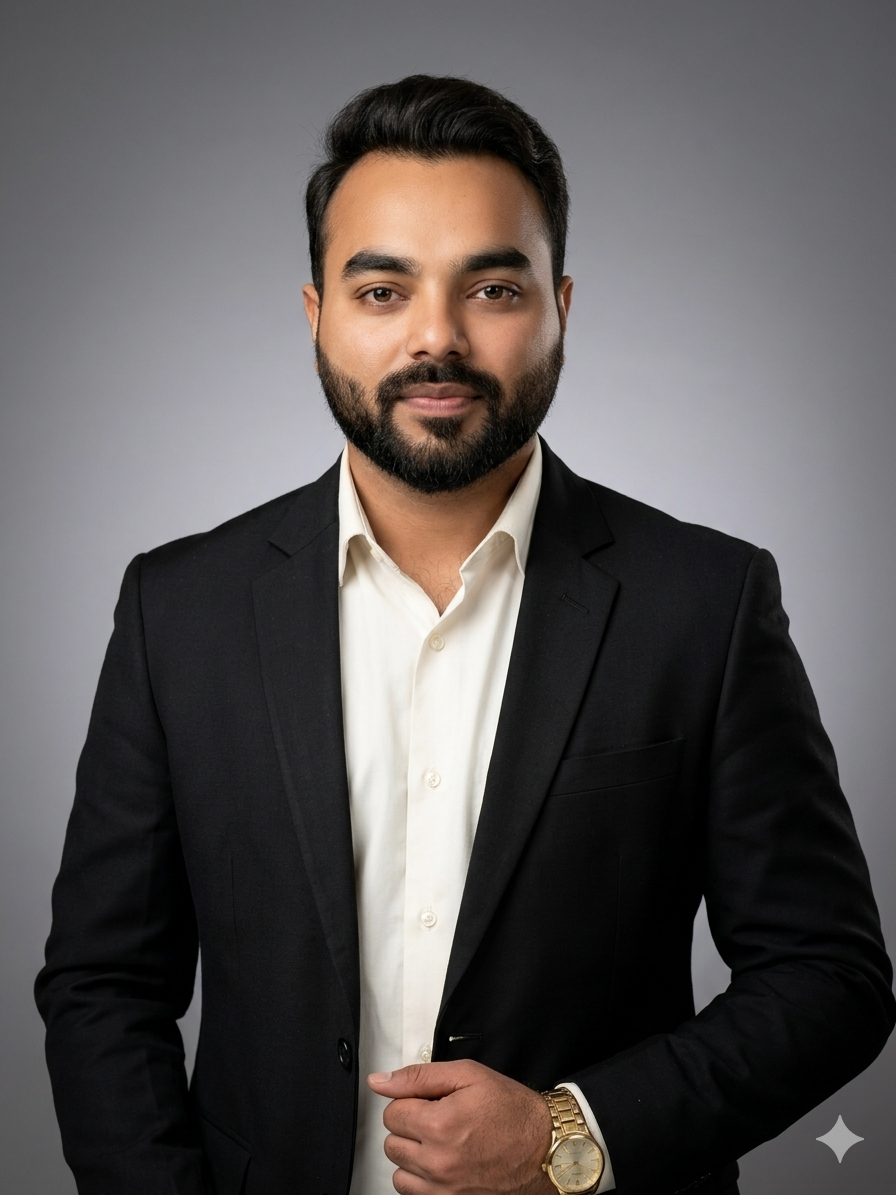
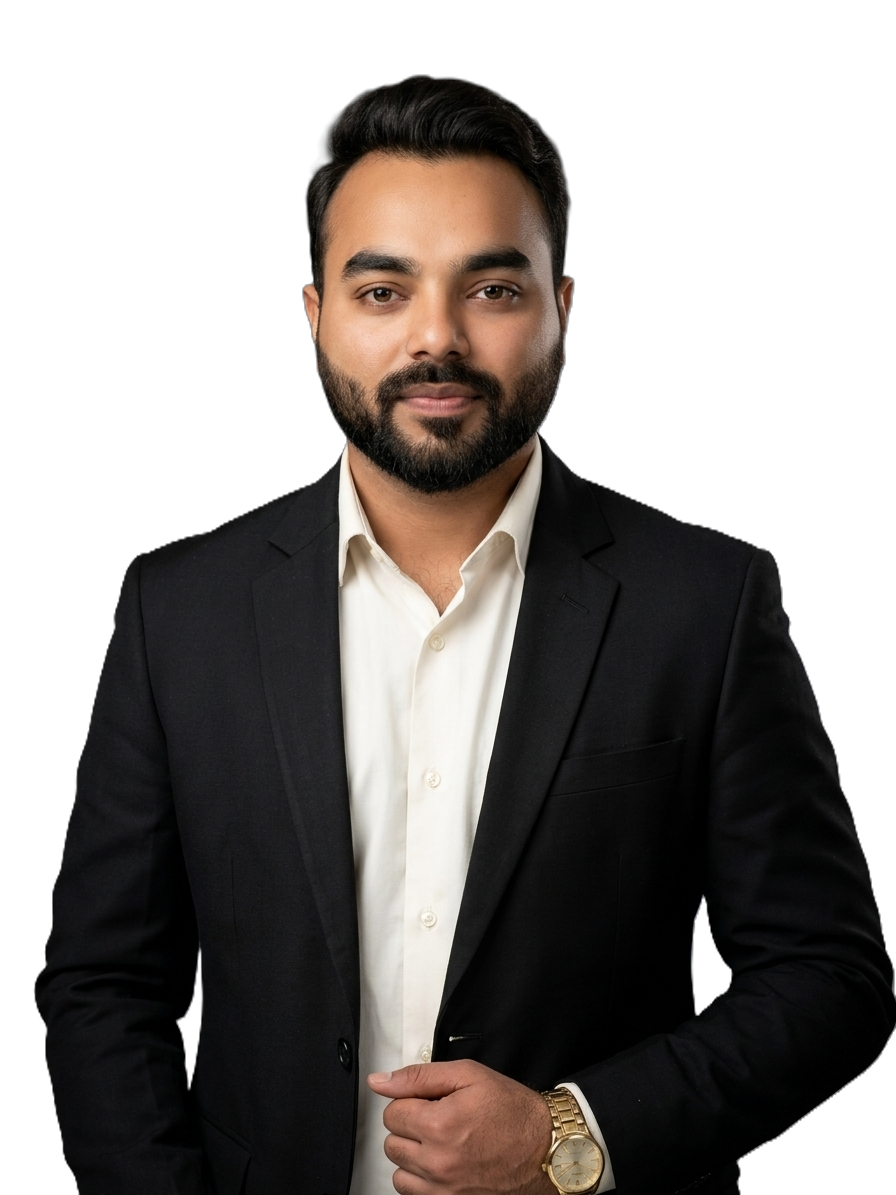
new portfolio theme

diff --git a/components/Hero.tsx b/components/Hero.tsx
@@ -1,7 +1,7 @@
 "use client";
 
 import { motion } from "framer-motion";
-import FloatingPortrait from "@/components/ui/FloatingPortrait";
+import Image from "next/image";
 
 function ElegantBackground() {
   return (
@@ -133,18 +133,25 @@ export default function Hero() {
 
           {/* Right: floating portrait */}
           <motion.div
-            initial={{ opacity: 0 }}
-            animate={{ opacity: 1 }}
-            transition={{ delay: 0.25, duration: 1.1, ease: "easeOut" }}
-            className="hidden lg:block"
-            style={{ height: "78vh" }}
+            initial={{ opacity: 0, y: 16 }}
+            animate={{ opacity: 1, y: 0 }}
+            transition={{ delay: 0.3, duration: 1.0, ease: "easeOut" }}
+            className="hidden lg:flex items-end justify-center relative"
+            style={{ height: "82vh" }}
           >
-            <FloatingPortrait
-              src="/asim.png"
-              alt="Muhammad Asim Saleem"
-              threshold={40}
-              feather={75}
-            />
+            <div className="relative w-full h-full">
+              <Image
+                src="/asim.png"
+                alt="Muhammad Asim Saleem"
+                fill
+                priority
+                className="object-contain object-bottom"
+                style={{
+                  filter:
+                    "contrast(1.06) brightness(1.04) saturate(0.92) drop-shadow(0 24px 64px rgba(0,104,121,0.13))",
+                }}
+              />
+            </div>
           </motion.div>
 
         </div>
